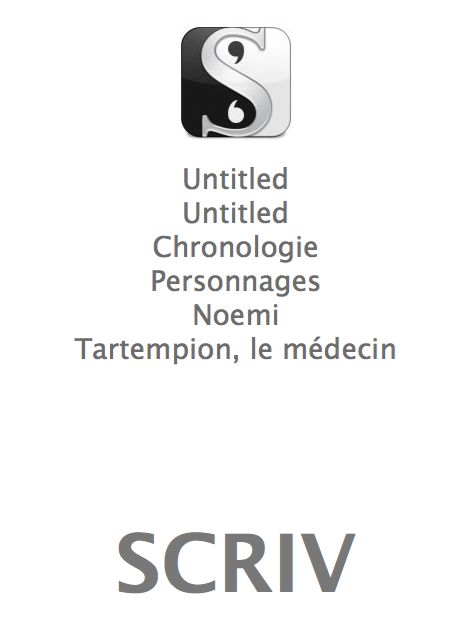
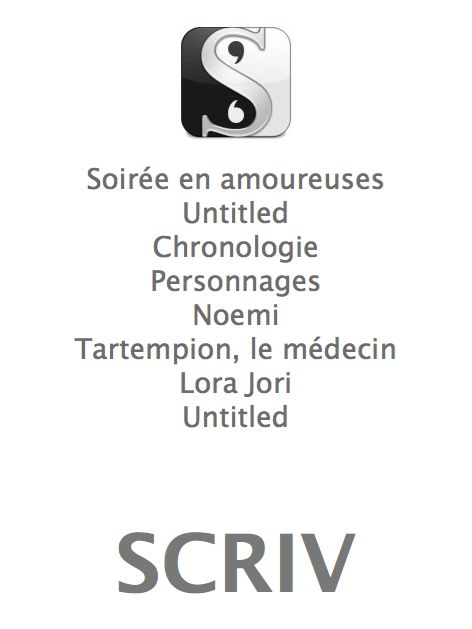
Chapter 1.
1737 words.

Changed region(s): [[0.3856, 0.5739, 0.6229, 0.6948], [0.3856, 0.2719, 0.8305, 0.3021], [0.178, 0.2417, 0.3559, 0.3021]]

diff --git a/Noemi.scriv/QuickLook/Preview.html b/Noemi.scriv/QuickLook/Preview.html
@@ -5,7 +5,7 @@
 <meta http-equiv="Content-Type" content="text/html; charset=utf-8">
 <style type="text/css">
 	body {background-color: #bac0c7}
-    p.binderItem {margin: 10.0px 0.0px 0.0px 05.0px; font-family:Times New Roman, Cochin, Times, Courier, Arial, serif; font-size:14.0px;}
+    p.binderItem {margin: 10.0px 0.0px 0.0px 05.0px; font-family:Times New Roman, Cochin, Times, Courier, Arial, serif; font-size:12.0px;}
     .page {border: 1px solid #727272; background: #fff}
     hr {
       border-top: 1px dashed #000;
@@ -28,7 +28,7 @@
 
 <ul>
 <li>
-<p class="binderItem"><strong>Untitled</strong></p>
+<p class="binderItem"><strong>Soirée en amoureuses</strong><br/>Repas en amoureuses.</p>
 </li>
 <li>
 <p class="binderItem"><strong>Untitled</strong></p>
